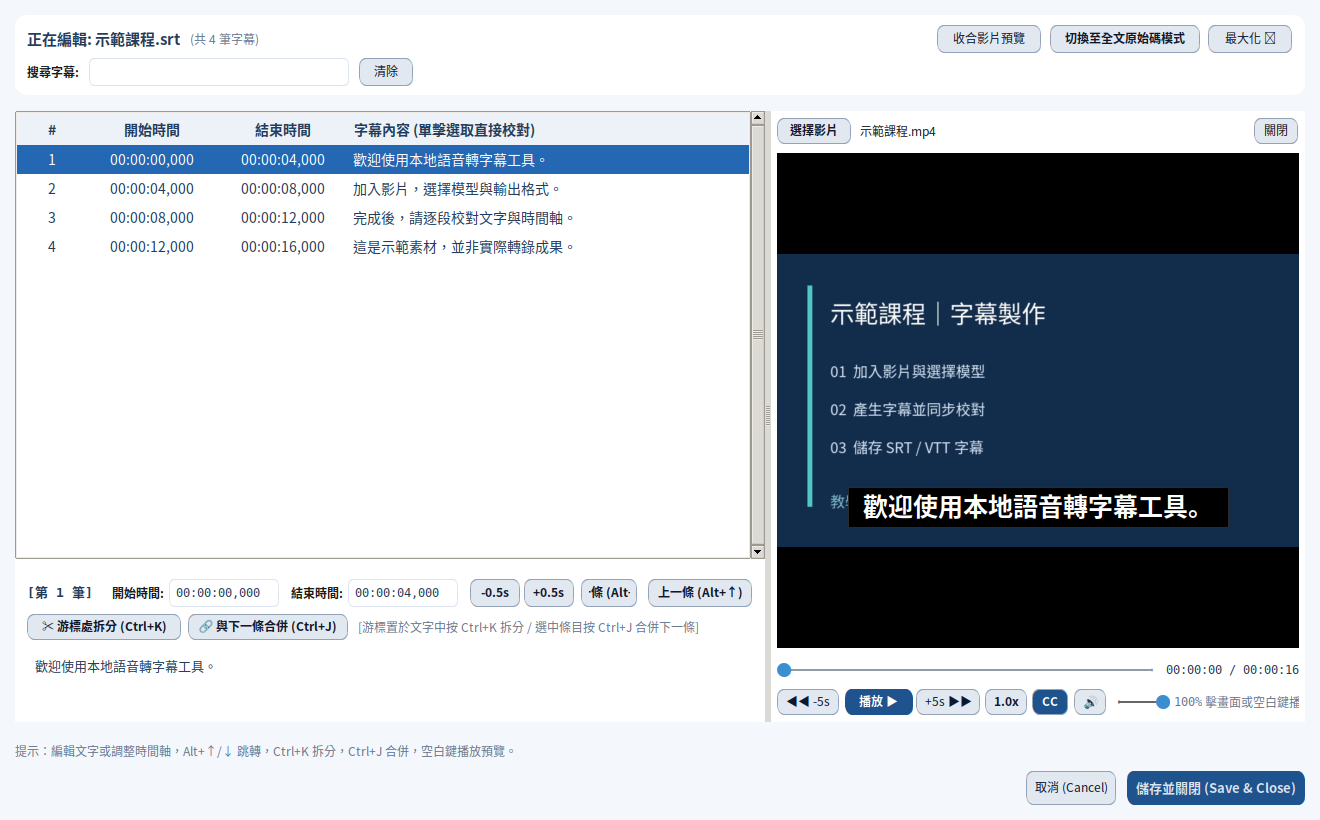
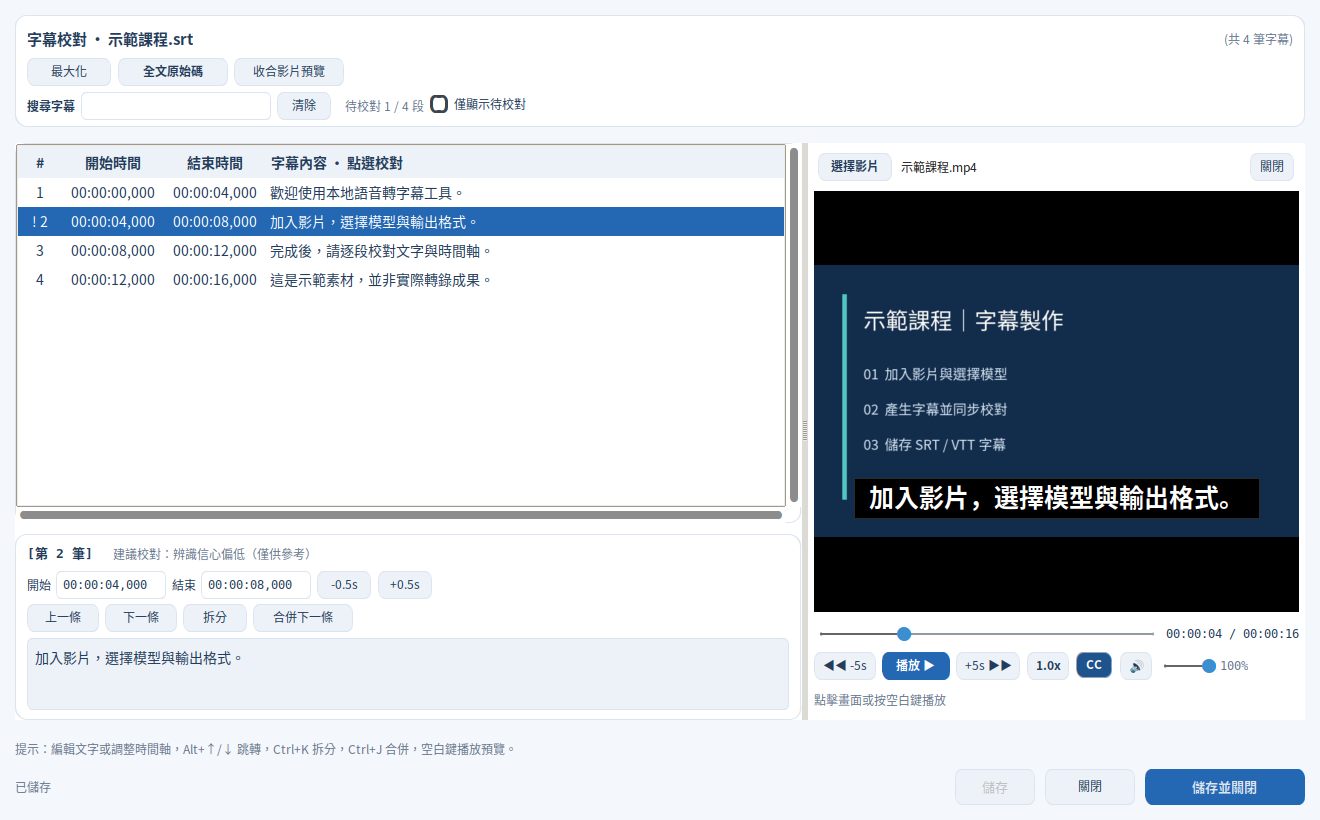
docs: publish verified v2.9.0 screenshots and release guidance

diff --git a/docs/superpowers/plans/2026-10-29-release-290.md b/docs/superpowers/plans/2026-10-29-release-290.md
@@ -4,12 +4,12 @@
 
 **執行方式：** 在既有隔離分支原生執行，不更動主要工作樹的未提交內容；沿用 GitHub Pages、截圖與發布 Actions。
 
-- [ ] 依實際設定與診斷程式核對操作文件；README 保持精簡，完整手冊加入設定表、範例與流程圖。
-- [ ] 更新官網的效能與待校對介紹；手冊支援白名單本機圖片與燈箱，保留 Markdown HTML 跳脫及路徑驗證。
-- [ ] Release 說明聚焦批次效能、校對提醒、進度、儲存與修正，不寫主畫面及網站調整。
-- [ ] 加入文件渲染及圖片路徑保護測試，先確認失敗，再實作。
-- [ ] 由專用分支執行截圖 Actions，僅以合成教材擷取 v2.9.0 主畫面、進階設定、校對器與模型管理，保存來源提交及版本中繼資料。
-- [ ] 套入截圖並檢查 README、官網與手冊；執行完整本機測試與網站測試，檢視差異與過時資訊。
+- [x] 依實際設定與診斷程式核對操作文件；README 保持精簡，完整手冊加入設定表、範例與流程圖。
+- [x] 更新官網的效能與待校對介紹；手冊支援白名單本機圖片與燈箱，保留 Markdown HTML 跳脫及路徑驗證。
+- [x] Release 說明聚焦批次效能、校對提醒、進度、儲存與修正，不寫主畫面及網站調整。
+- [x] 加入文件渲染及圖片路徑保護測試，先確認失敗，再實作。
+- [x] 由專用分支執行截圖 Actions，僅以合成教材擷取 v2.9.0 主畫面、進階設定、校對器與模型管理，保存來源提交及版本中繼資料。
+- [x] 套入截圖並檢查 README、官網與手冊；執行完整本機測試與網站測試，檢視差異與過時資訊。
 - [ ] 提交並將已驗證分支快轉整合至遠端 main；等候 Windows／macOS 建置及安全測試全部成功後，由既有流程發布 v2.9.0。
 - [ ] 確認正式 Release 四個資產、版本說明、最新版下載入口與 Pages 部署結果。
 
